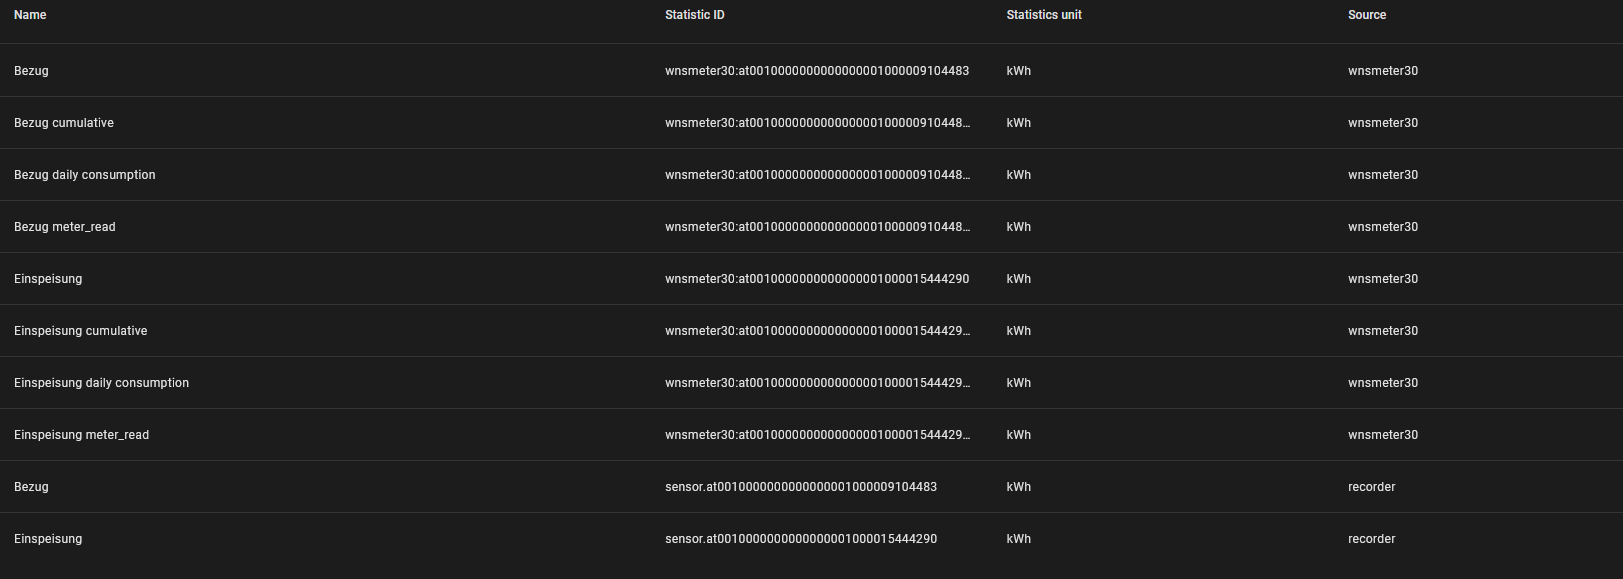
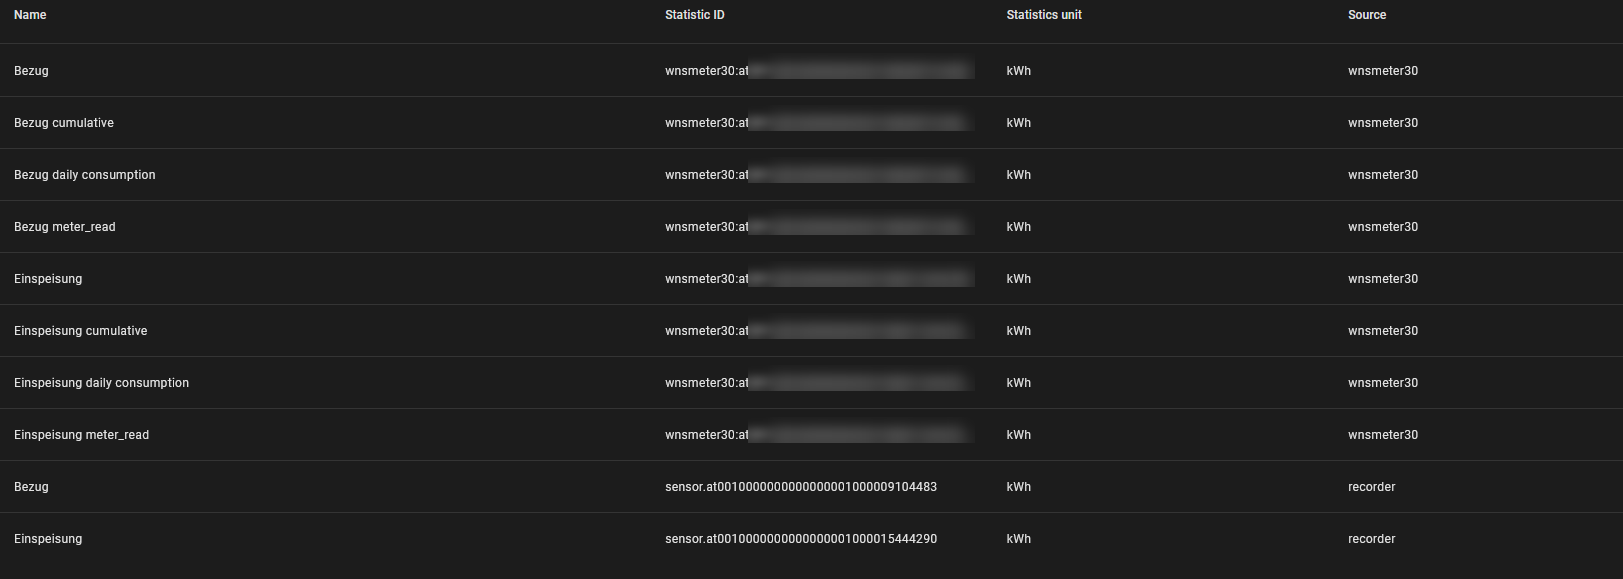
fix: update statistics image in README files

diff --git a/README_DE.md b/README_DE.md
@@ -34,7 +34,7 @@ Beispiel Entitaetenansicht (Zaehlernummern unkenntlich gemacht, Suffixe lesbar):
 
 Beispiel Statistikansicht (Zaehlernummern unkenntlich gemacht, Suffixe lesbar):
 
-![Wiener Netze Smartmeter - Uebersicht erstellter Statistik-Streams](doc/statistics_blurred.png)
+![Wiener Netze Smartmeter - Uebersicht erstellter Statistik-Streams](doc/stat3.png)
 
 ## Erstellte Sensoren
 
@@ -250,3 +250,4 @@ Nach dem Aendern von Optionen in der Integration:
 
 Diese Integration basiert auf der Originalarbeit von DarwinsBuddy:
 - https://github.com/DarwinsBuddy/WienerNetzeSmartmeter
+

diff --git a/README.md b/README.md
@@ -34,7 +34,7 @@ Entities view example (meter numbers blurred, suffixes kept readable):
 
 Statistics view example (meter numbers blurred, suffixes kept readable):
 
-![Wiener Netze Smartmeter - Created statistics streams overview](doc/statistics_blurred.png)
+![Wiener Netze Smartmeter - Created statistics streams overview](doc/stat3.png)
 
 ## Created Sensors
 
@@ -253,3 +253,4 @@ After changing options in the integration:
 
 This integration is based on the original work by DarwinsBuddy:
 - https://github.com/DarwinsBuddy/WienerNetzeSmartmeter
+
